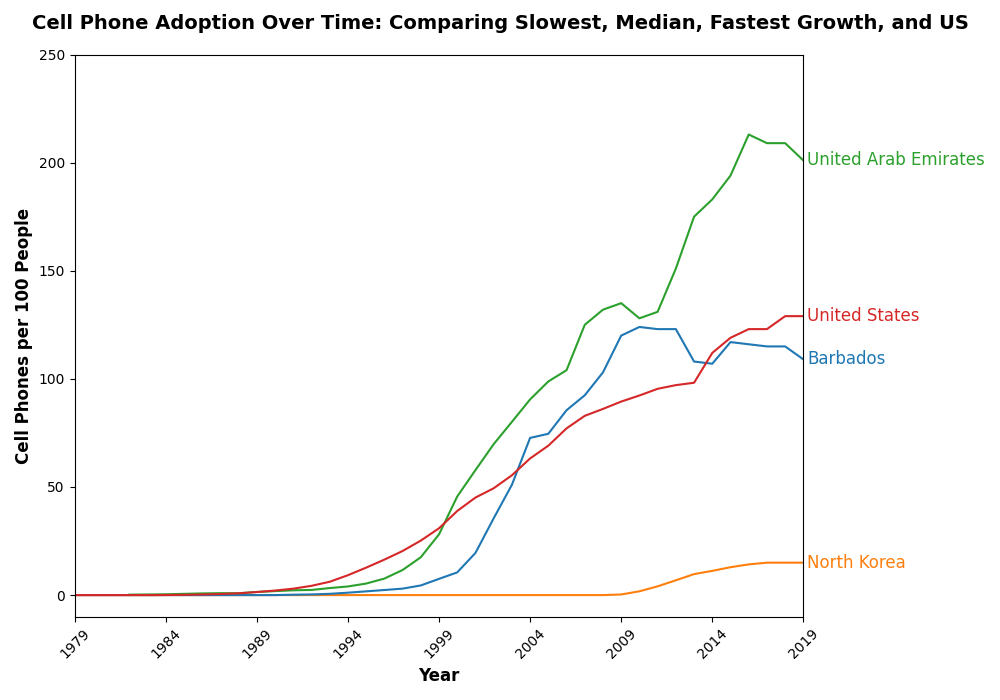
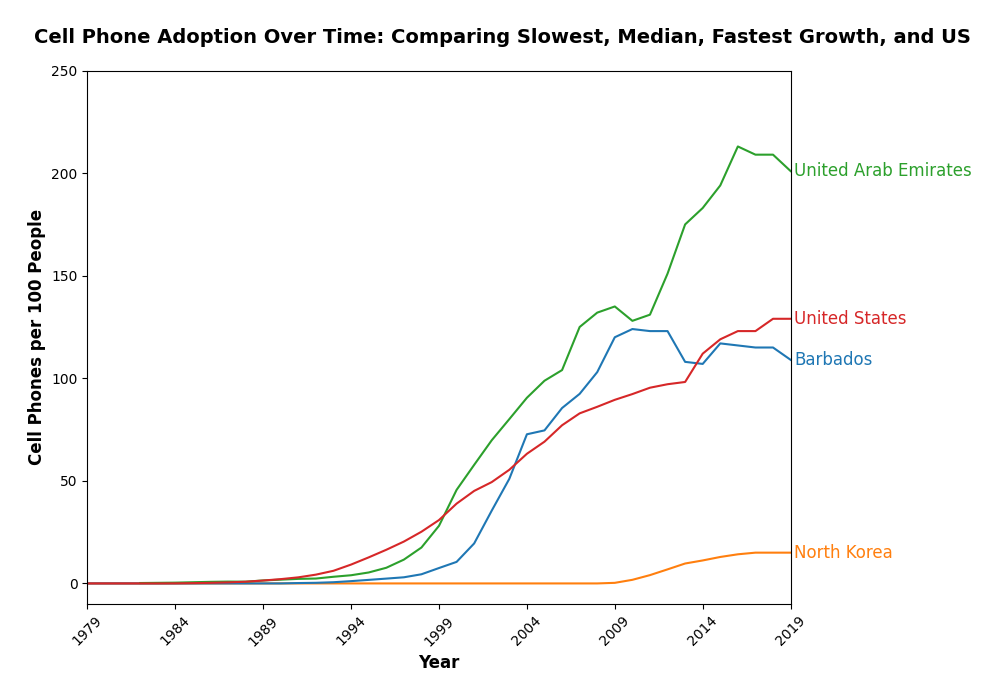
updated save fig code and part 2 of hw

diff --git a/internet_region_usage.py b/internet_region_usage.py
@@ -1,0 +1,196 @@
+import pandas as pd
+import matplotlib.pyplot as plt
+import matplotlib.colors as mcolors
+import matplotlib.patches as mpatches
+import numpy as np
+import os
+
+def lighten_color(color, amount=0.5):
+    """
+    Lightens the given color.
+    amount=0 → original color
+    amount=1 → white
+    """
+    c = mcolors.to_rgb(color)
+    white = (1, 1, 1)
+    return tuple((1 - amount) * c[i] + amount * white[i] for i in range(3))
+
+# Read CSV
+input = "data/share-of-individuals-using-the-internet.csv"
+df = pd.read_csv(input)
+
+geo_areas = [
+    "Arab World",
+    "Caribbean small states",
+    "Central Europe and the Baltics",
+    "East Asia & Pacific",
+    "Europe & Central Asia",
+    "Latin America & Caribbean",
+    "Middle East & North Africa",
+    "Pacific island small states",
+    "South Asia",
+    "Sub-Saharan Africa"
+]
+
+region_group = {
+    "Arab World": "Middle East & North Africa",
+    "Middle East & North Africa": "Middle East & North Africa",
+
+    "Caribbean small states": "Americas",
+    "Latin America & Caribbean": "Americas",
+
+    "Central Europe and the Baltics": "Europe",
+    "Europe & Central Asia": "Europe",
+
+    "East Asia & Pacific": "Asia",
+    "Pacific island small states": "Asia",
+    "South Asia": "Asia",
+
+    "Sub-Saharan Africa": "Africa"
+}
+
+# color palette by category 
+color_map = {
+    "Europe": "#4E79A7",               # muted blue
+    "Americas": "#F28E2B",             # warm orange
+    "Middle East & North Africa": "#E15759", # soft red
+    "Asia": "#59A14F",                  # muted teal
+    "Africa": "#AF7AA1"                 # soft purple
+}
+
+# get regions from dataset
+df_regions = df[df["Entity"].isin(geo_areas)]
+
+# assign regions into continents
+df_regions['Region Group'] = df_regions['Entity'].map(region_group)
+
+# Filter by latest year for region
+latest_year = df_regions.groupby("Entity")["Year"].max().min()
+df_latest = df_regions[df_regions["Year"] == latest_year]
+
+# map color onto category
+df_latest['Color'] = df_latest['Region Group'].map(color_map)
+
+# --- Compute category order by max value ---
+category_max = df_latest.groupby('Region Group')['Individuals using the Internet (% of population)'].max()
+category_order = category_max.sort_values(ascending=False).index
+
+# --- Sort within category ---
+df_latest_sorted = pd.DataFrame()
+for cat in category_order:
+    cat_df = df_latest[df_latest['Region Group'] == cat].sort_values(
+        'Individuals using the Internet (% of population)', ascending=False
+    )
+    df_latest_sorted = pd.concat([df_latest_sorted, cat_df])
+
+# variables for plotting 
+labels = df_latest_sorted['Entity']
+values = df_latest_sorted['Individuals using the Internet (% of population)']
+colors = df_latest_sorted['Color']
+
+folder = "plots"
+
+# --- Bar chart ---
+plt.figure(figsize=(12,7))
+bars = plt.bar(labels, values, color=colors)
+
+plt.ylim(0, max(values)*1.15)
+plt.xticks(rotation=45, ha='right')
+plt.ylabel("Internet Usage (% of population)",fontsize=11, fontweight='semibold')
+plt.xlabel("Region", fontsize=11, fontweight='semibold')
+plt.title(f"Internet Usage by Region in {latest_year}", fontweight='bold', fontsize=14, pad=20)
+
+handles = [plt.Rectangle((0,0),1,1,color=color) for color in color_map.values()]
+plt.legend(handles, color_map.keys(), title="Region Group", title_fontsize = 11)
+
+# Add value labels on top of bars
+for bar in bars:
+    height = bar.get_height()
+    plt.text(bar.get_x() + bar.get_width()/2, height + 1, f"{height:.1f}%", ha='center', va='bottom')
+
+plt.tight_layout(pad=2)
+
+filename = "internet_usage_bar.png"
+os.makedirs(folder, exist_ok=True)
+plt.savefig(os.path.join(folder, filename))
+plt.close()
+
+
+# --- Pie chart ---
+
+# --- Inner circle data ---
+group_values = df_latest_sorted.groupby('Region Group')[
+    'Individuals using the Internet (% of population)'
+].sum()
+
+group_order = group_values.index.tolist()
+group_colors = [color_map[g] for g in group_order]
+
+# --- Outer circle data (MUST follow group order exactly) ---
+outer_labels = []
+outer_values = []
+outer_colors = []
+
+for group in group_order:
+
+    group_df = df_latest_sorted[df_latest_sorted['Region Group'] == group]
+
+    base_color = color_map[group]
+
+    n = len(group_df)
+
+    for i, (_, row) in enumerate(group_df.iterrows()):
+
+        outer_labels.append(row['Entity'])
+        outer_values.append(row['Individuals using the Internet (% of population)'])
+
+        # progressively lighter shades within group
+        if n == 1:
+            amount = 0.35
+        else:
+            amount = 0.2 + (0.35 * i / (n - 1))
+
+        lighter = lighten_color(base_color, amount)
+
+        outer_colors.append(lighter)
+
+# --- Plot ---
+fig, ax = plt.subplots(figsize=(10, 8))
+
+# Outer pie (regions)
+ax.pie(
+    outer_values,
+    radius=1,
+    labels=outer_labels,
+    labeldistance=1.05,
+    colors=outer_colors,
+    wedgeprops=dict(width=0.3, edgecolor='white'),
+    startangle=90,
+    autopct='%1.1f%%',
+    pctdistance=0.85
+)
+
+# Inner pie (groups)
+ax.pie(
+    group_values,
+    radius=0.7,
+    colors=group_colors,
+    wedgeprops=dict(width=0.4, edgecolor='white'),
+    startangle=90
+)
+
+
+# --- Create legend handles ---
+handles = [plt.Rectangle((0,0),1,1,color=color_map[g]) for g in group_values.index]
+leg = plt.legend(handles, group_values.index, title="Region Group", title_fontsize=11, 
+           loc='upper center', bbox_to_anchor=(0.5, 0), labelspacing=1.2,
+           ncol=len(group_values), frameon=False)
+
+plt.tight_layout(pad=3)
+
+plt.title(f"Internet Usage by Region in {latest_year}", y=0.98,fontweight='bold')
+
+filename = "internet_usage_pie.png"
+os.makedirs(folder, exist_ok=True)
+plt.savefig(os.path.join(folder, filename))
+plt.close()

diff --git a/phone_country_growth.py b/phone_country_growth.py
@@ -48,11 +48,6 @@ def get_special_countries(df):
 # plot selected countries for trends
 def plot_countries(df, countries):
     plt.figure(figsize=(10, 7))
-    plt.suptitle(
-        "Cell Phone Adoption Over Time: Comparing Slowest, Median, Fastest Growth, and US",
-        fontsize=14,
-        fontweight='bold'
-    )
 
     # convert columns to integers for easier manipulation later
     years = df.columns.astype(int)
@@ -115,7 +110,16 @@ def plot_countries(df, countries):
     ticks = list(range(max_year, min_year - 1, -step))
     plt.xticks(ticks, rotation=45)
 
-    plt.tight_layout()
+    
+    plt.title(
+        "Cell Phone Adoption Over Time: Comparing Slowest, Median, Fastest Growth, and US",
+        fontsize=14,
+        fontweight='bold',
+        x=0.59,
+        pad=20
+    )
+
+    plt.tight_layout(pad=2)
 
     folder = "plots"
     filename = "cell_phone_country_comparison.png"